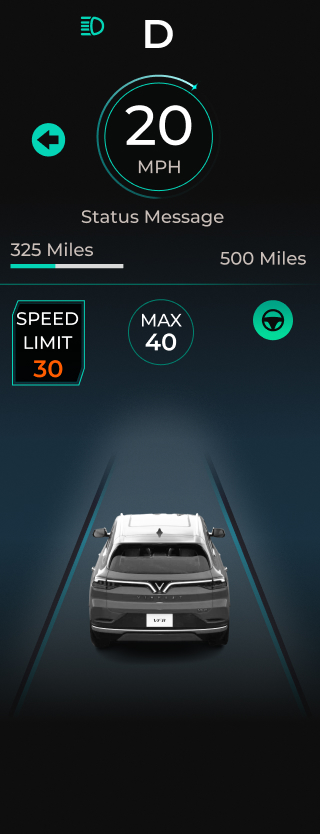
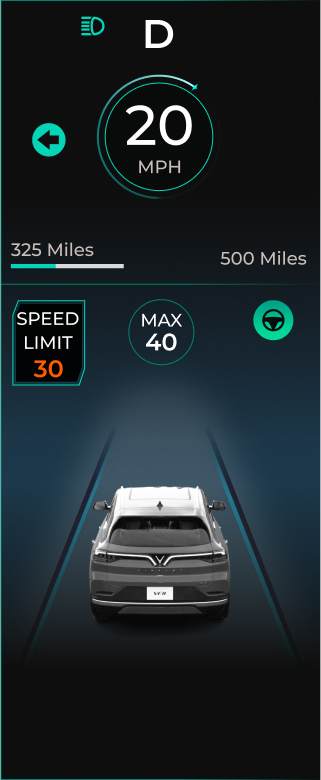
change bottom bar to new design

diff --git a/src/pages/index.js b/src/pages/index.js
@@ -84,28 +84,28 @@ function Home() {
             src={imageSrc}
             alt="left-pane"
             width={320}
-            height={820}
-            className=" object-contain w-[320px] max-w-[320px] min-w-[320px] h-fit max-h-[820px]"
+            height={770}
+            className=" object-contain w-[320px] max-w-[320px] min-w-[320px] h-fit max-h-[770px]"
           />
         </div>
-        <div className="mx-auto box-border flex-auto items-center justify-center grid grid-cols-2 grid-rows-2 p-2 pb-0 w-full h-[820px] max-h-[820px] relative">
+        <div className="mx-auto box-border flex-auto items-center justify-center grid grid-cols-2 grid-rows-2 px-1 w-full h-[820px] max-h-[820px] relative">
           <div className="col-span-2 row-span-2 h-fit">{renderContent()}</div>
-          <div className="flex col-span-2 items-center h-4">
-            <BottomBarButton
-              onClick={() => updateLocalState({ openBottomBar: true })}
-            />
-          </div>
+          {/* <div className="flex col-span-2 items-center h-4">
+            <BottomBarButton onClick={() => updateLocalState({ openBottomBar: true })} />
+          </div> */}
         </div>
+      </div>
+      <div className="absolute bottom-0 left-0 right-0 w-full h-[38px]">
+        <BottomBarButton onClick={() => updateLocalState({ openBottomBar: true })} />
       </div>
       {localState.openBottomBar === true && (
         <div
           className={
-            "w-full h-[104px] absolute bottom-0 left-0 right-0 bg-black flex items-center justify-center z-20 space-x-20 " +
+            "w-full h-[104px] absolute bottom-0 left-0 right-0 bg-black flex items-center justify-center z-20 space-x-20 transfrom " +
             (gTheme == THEME_KEYS.SOPHISTICATED
               ? 'rounded-t-[2rem] bg-[url("/images/bottom-bar-bg.svg")]'
               : 'bg-[url("/images/bottom-bar-bg-light.svg")]')
           }
-          onClick={() => updateLocalState({ openBottomBar: false })}
         >
           <Button1 />
           <Button2 />
@@ -115,12 +115,16 @@ function Home() {
           <Button4 />
           <Button7 />
           <Button8 />
-          <SettingsButton />
+          {/* <SettingsButton /> */}
+          <button
+            className="absolute -top-5 r-[50%] translate-x-2/4 w-[60px] h-[38px] bg-[#1A2433] flex justify-center items-center rounded-t-md "
+            onClick={() => updateLocalState({ openBottomBar: false })}
+          >
+            <Image src={`/images/button-collapse.svg`} width={22} height={13} />
+          </button>
         </div>
       )}
-      <LoginPopup
-        isVisible={!gUser.email}
-      />
+      <LoginPopup isVisible={!gUser.email} />
     </>
   );
 }

diff --git a/src/components/BottomBarButton.jsx b/src/components/BottomBarButton.jsx
@@ -10,7 +10,7 @@ function BottomBarButton(props) {
 
   return (
     <button type="button" className="h-4 mx-auto" onClick={onClick}>
-      <svg
+      {/* <svg
         width="174"
         height="4"
         viewBox="0 0 180 4"
@@ -18,6 +18,58 @@ function BottomBarButton(props) {
         xmlns="http://www.w3.org/2000/svg"
       >
         <rect x="0" width="180" height="4" rx="2" fill={fillColor} />
+      </svg> */}
+      <svg
+        width="1180"
+        height="38"
+        viewBox="0 0 1195 38"
+        fill="none"
+        xmlns="http://www.w3.org/2000/svg"
+      >
+        <path
+          d="M0.353516 30C0.353516 13.4315 13.785 0 30.3535 0H1164.35C1180.92 0 1194.35 13.4315 1194.35 30V38H0.353516V30Z"
+          fill="#090B0A"
+        />
+        <path
+          d="M0.353516 30C0.353516 13.4315 13.785 0 30.3535 0H1164.35C1180.92 0 1194.35 13.4315 1194.35 30V38H0.353516V30Z"
+          fill="url(#paint0_linear_3832_47965)"
+          fill-opacity="0.8"
+        />
+        <path
+          d="M0.353516 30C0.353516 13.4315 13.785 0 30.3535 0H1164.35C1180.92 0 1194.35 13.4315 1194.35 30V38H0.353516V30Z"
+          fill="url(#paint1_linear_3832_47965)"
+          fill-opacity="0.8"
+        />
+        <path
+          fill-rule="evenodd"
+          clip-rule="evenodd"
+          d="M586.893 24.6831C587.761 25.5509 589.168 25.5509 590.036 24.6831L597.353 17.3656L604.671 24.6831C605.539 25.5509 606.946 25.5509 607.814 24.6831C608.681 23.8153 608.681 22.4082 607.814 21.5404L598.925 12.6515C598.057 11.7837 596.65 11.7837 595.782 12.6515L586.893 21.5404C586.025 22.4082 586.025 23.8153 586.893 24.6831Z"
+          fill="white"
+        />
+        <defs>
+          <linearGradient
+            id="paint0_linear_3832_47965"
+            x1="597.354"
+            y1="0"
+            x2="597.354"
+            y2="38"
+            gradientUnits="userSpaceOnUse"
+          >
+            <stop stop-color="#1A2433" />
+            <stop offset="1" stop-color="#20475E" />
+          </linearGradient>
+          <linearGradient
+            id="paint1_linear_3832_47965"
+            x1="597.354"
+            y1="0"
+            x2="597.354"
+            y2="38"
+            gradientUnits="userSpaceOnUse"
+          >
+            <stop stop-color="#1A2433" />
+            <stop offset="1" stop-color="#20475E" />
+          </linearGradient>
+        </defs>
       </svg>
     </button>
   );

diff --git a/src/components/layouts/LayoutDisplay.jsx b/src/components/layouts/LayoutDisplay.jsx
@@ -22,17 +22,14 @@ function LayoutDisplay(props) {
   }
 
   return (
-    <div className="grid grid-cols-2 grid-rows-4 gap-3 p-2 mx-auto box-border h-full">
+    <div className="grid grid-cols-2 grid-rows-4 gap-3 px-2 pt-3 pb-[50px] mx-auto box-border h-full">
       {layoutConfig.map(item => {
         const { position } = item;
         const className = `${item.className} relative`;
         const widgetShape = getWidgetShapeByPosition(position);
         return (
           <div className={className} key={position}>
-            <WidgetDisplay
-              widgetType={gPageInfo.widgets[position]}
-              widgetShape={widgetShape}
-            />
+            <WidgetDisplay widgetType={gPageInfo.widgets[position]} widgetShape={widgetShape} />
           </div>
         );
       })}

diff --git a/src/components/PageWidgetsDisplay.jsx b/src/components/PageWidgetsDisplay.jsx
@@ -10,16 +10,10 @@ function PageWidgetsDisplay(props) {
 
   return (
     <div className="grid grid-cols-2 grid-rows-2">
-      <div className="row-span-2 col-span-2 h-[820px] gap-3 p-3">
-        {
-          gCurrentPage === 0
-            ? <AllWidgetsPage />
-            : <LayoutDisplay />
-        }
+      <div className="row-span-2 col-span-2 h-[820px] gap-3 px-1">
+        {gCurrentPage === 0 ? <AllWidgetsPage /> : <LayoutDisplay />}
       </div>
-      <div
-        className="col-span-2 flex justify-center absolute bottom-[18px] m-auto left-0 right-0 box-border"
-      >
+      <div className="col-span-2 flex justify-center absolute bottom-[30px] m-auto left-0 right-0 box-border z-10">
         <PageNavigationBottomBar />
       </div>
     </div>

diff --git a/src/components/layouts/LayoutEdit.jsx b/src/components/layouts/LayoutEdit.jsx
@@ -1,6 +1,6 @@
-import { useReducer } from 'react';
+import { useReducer } from "react";
 
-import LayoutEditView from '@/components/layouts/LayoutEditView';
+import LayoutEditView from "@/components/layouts/LayoutEditView";
 
 import { LAYOUT_EDIT_CONFIG } from "@/constants/constants";
 
@@ -16,13 +16,13 @@ function LayoutEdit(props) {
     }
   );
 
-  const handleToggleWidgetActive = (widgetPosition) => {
+  const handleToggleWidgetActive = widgetPosition => {
     if (widgetPosition === localState.selectedWidgetPosition) {
       updateLocalState({ selectedWidgetPosition: null });
     } else {
       updateLocalState({ selectedWidgetPosition: widgetPosition });
     }
-  }
+  };
 
   const layoutConfig = LAYOUT_EDIT_CONFIG[layoutType];
 

diff --git a/src/components/Button8.jsx b/src/components/Button8.jsx
@@ -1,9 +1,19 @@
-import { selectPrimaryColor } from "@/store/slices/appStatusSlice";
-import { useSelector } from "react-redux";
+import { selectCurrentPage, selectPrimaryColor, setPage } from "@/store/slices/appStatusSlice";
+import { useRouter } from "next/router";
+import { useDispatch, useSelector } from "react-redux";
 
 function Button8() {
-  const handleButtonClick = (e) => {
+  const router = useRouter();
+  const dispatch = useDispatch();
+
+  const gCurrentPage = useSelector(selectCurrentPage);
+
+  const handleButtonClick = e => {
     e.stopPropagation();
+    router.push("/management");
+    if (gCurrentPage === 0) {
+      dispatch(setPage(1));
+    }
   };
 
   const gPrimaryColor = useSelector(selectPrimaryColor);
